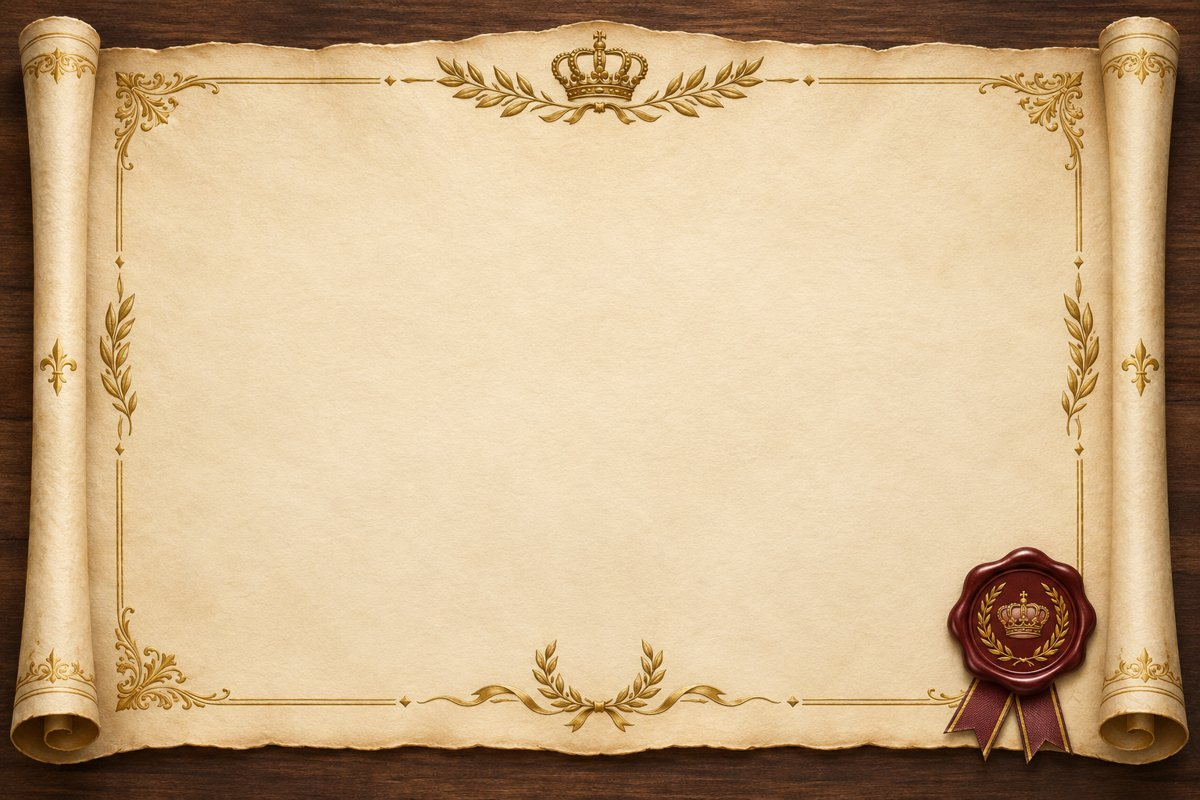
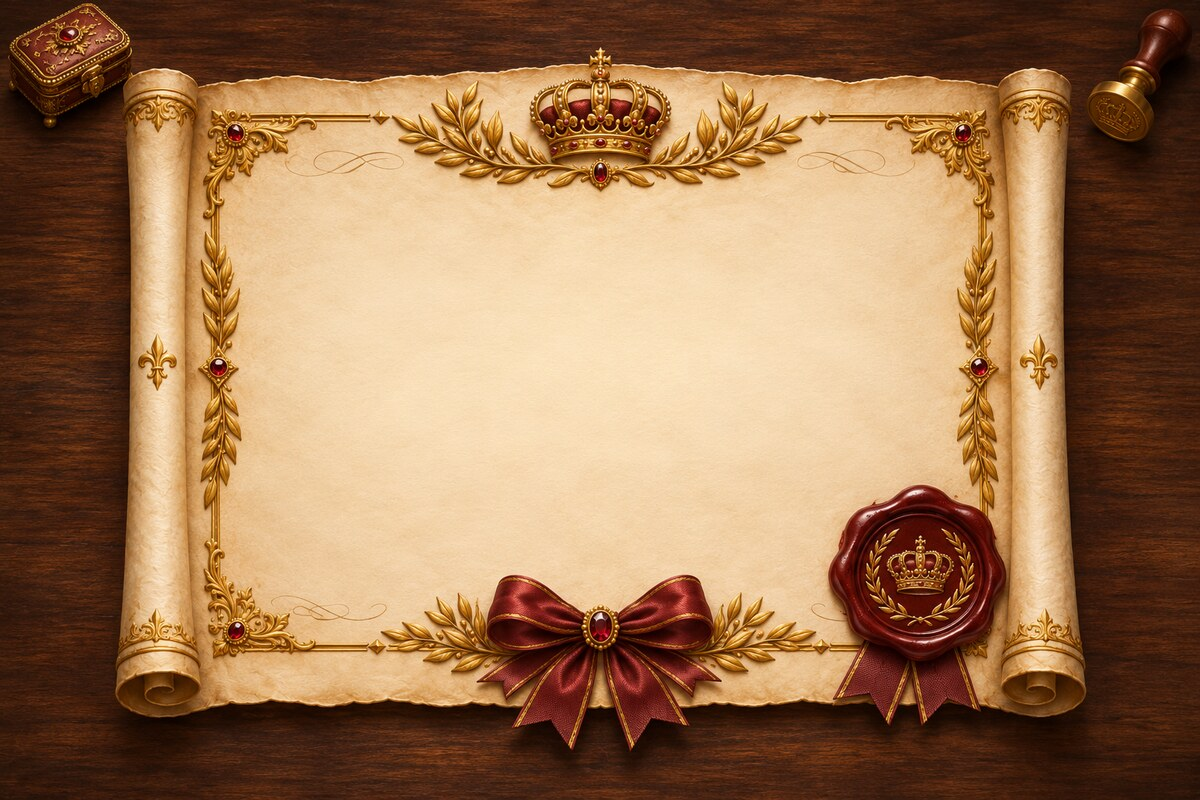
art: embellish five regional delivery receipts and match parchment typography

diff --git a/src/ProjectStory.tsx b/src/ProjectStory.tsx
@@ -1,6 +1,7 @@
 import React from 'react';
 import {Image,View,StyleSheet,ImageSourcePropType} from 'react-native';
 import {C,Txt} from './ui';
+import {displayFont} from './theme';
 import {t} from './i18n';
 import {projectStory,StoryRegion} from './projectStory';
 const art:Record<StoryRegion,ImageSourcePropType[]>={
@@ -26,4 +27,4 @@ export function ProjectStory({order}:any){
   {story.receipt&&<View pointerEvents="none" style={s.receipt}><Txt style={s.receiptTitle}>Lieferung bestätigt</Txt><Txt style={s.customer}>{order.customerName||story.customer}</Txt></View>}
  </View>;
 }
-const s=StyleSheet.create({panel:{width:'100%',aspectRatio:3/2,position:'relative',overflow:'hidden',borderRadius:8,backgroundColor:C.panel},image:{width:'100%',height:'100%'},receipt:{position:'absolute',left:'16%',right:'16%',top:'25%',bottom:'25%',alignItems:'center',justifyContent:'center',gap:10},receiptTitle:{fontSize:20,lineHeight:26,fontWeight:'700',textAlign:'center',color:C.text},customer:{fontSize:13,lineHeight:18,textAlign:'center',color:C.text}});
+const s=StyleSheet.create({panel:{width:'100%',aspectRatio:3/2,position:'relative',overflow:'hidden',borderRadius:8,backgroundColor:C.panel},image:{width:'100%',height:'100%'},receipt:{position:'absolute',left:'24%',right:'24%',top:'30%',bottom:'38%',alignItems:'center',justifyContent:'center',gap:6},receiptTitle:{fontFamily:displayFont,fontSize:18,lineHeight:24,fontWeight:'400',fontStyle:'italic',textAlign:'center',color:'#796348'},customer:{fontFamily:displayFont,fontSize:12,lineHeight:17,fontWeight:'400',textAlign:'center',color:'#796348'}});

diff --git a/PENDING_UPDATE.md b/PENDING_UPDATE.md
@@ -44,3 +44,7 @@ Die Tabelle hält belegte Restpunkte fest; sie beauftragt keine neue Spielfunkti
 ## Gesammelt: Punktestand nur im Verteilbutton
 
 Separate Anzeige „Verfügbare Punkte“ in der oberen Handelsimperiumkarte inklusive Zeile entfernt, unabhängig vom Guthaben. Bei positiven Punkten bleibt der vorhandene Verteilbutton mit Anzahl; Basismaxima und Verteilmodal unverändert. Fünf gezielte Komponentenprüfungen erfolgreich. Noch nicht veröffentlicht.
+
+## Gesammelt: Regionale Übergabescheine verziert
+
+Alle fünf Abschlussbilder ersetzt: kleinere regional verzierte Pergamente auf sichtbaren Tischen, passende Schleifen und plastisch geprägte Wachssiegel; je zwei dezente regionale Dekostücke. Die echte, übersetzbare Beschriftung bleibt erhalten und wird in zurückhaltender sepiafarbener historischer Serifenschrift in der freien Papiermitte gesetzt. Kundenname bleibt dynamisch, Abschluss-/Abhollogik unverändert. Fünf Produktions-JPEGs 1200 × 800, Motive visuell geprüft, vollständig dekodiert und Upload-Blob-SHAs abgeglichen; Typprüfung erfolgreich. Kein physischer Gerätetest. Neue Prompt-Provenienz: assets/art/project-stories/receipt-redesign-prompts.json. Noch nicht veröffentlicht.
